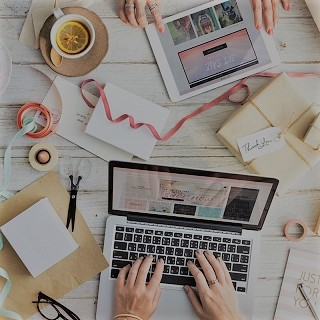
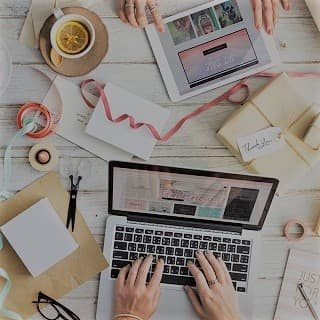
Compression de nouvelle image

diff --git a/style.min.css b/style.min.css
@@ -1,1 +1,1 @@
-body{margin:0;padding:0;background:#fff;overflow-x:hidden;-webkit-font-smoothing:antialiased;-moz-osx-font-smoothing:grayscale}a,button{transition:all .3s ease-in-out;outline:0!important}a:hover{text-decoration:none;cursor:pointer}#page-loading-blocs-notifaction{position:fixed;top:0;bottom:0;width:100%;z-index:100000;background:#fff url(img/pageload-spinner.gif) no-repeat center center}.bloc{width:100%;clear:both;background:50% 50% no-repeat;padding:0 50px;-webkit-background-size:cover;-moz-background-size:cover;-o-background-size:cover;background-size:cover;position:relative}.bloc .container{padding-left:0;padding-right:0}.bloc-lg{padding:100px 50px}.bloc-md{padding:50px}.bloc-sm{padding:20px 50px}.bg-b-edge,.bg-bl-edge,.bg-br-edge,.bg-center,.bg-l-edge,.bg-r-edge,.bg-repeat,.bg-t-edge,.bg-tl-edge,.bg-tr-edge{-webkit-background-size:auto!important;-moz-background-size:auto!important;-o-background-size:auto!important;background-size:auto!important}.bg-repeat{background:repeat}.bg-t-edge{background:top no-repeat}.bloc-bg-texture::before{content:"";background-size:2px 2px;position:absolute;top:0;bottom:0;left:0;right:0}.texture-paper::before{background:url(img/texture-paper.png);background-size:280px 280px}.b-parallax{background-attachment:fixed}.d-bloc{color:rgba(255,255,255,.7)}.d-bloc button:hover{color:rgba(255,255,255,.9)}.d-bloc .icon-round,.d-bloc .icon-rounded,.d-bloc .icon-semi-rounded-a,.d-bloc .icon-semi-rounded-b,.d-bloc .icon-square{border-color:rgba(255,255,255,.9)}.d-bloc .divider-h span{border-color:rgba(255,255,255,.2)}.d-bloc .a-btn,.d-bloc .navbar a,.d-bloc .navbar-brand,.d-bloc a .icon-lg,.d-bloc a .icon-md,.d-bloc a .icon-sm,.d-bloc a .icon-xl,.d-bloc h1 a,.d-bloc h2 a,.d-bloc h3 a,.d-bloc h4 a,.d-bloc h5 a,.d-bloc h6 a,.d-bloc p a{color:rgba(255,255,255,.6)}.d-bloc .a-btn:hover,.d-bloc .navbar a:hover,.d-bloc .navbar-brand:hover,.d-bloc a:hover .icon-lg,.d-bloc a:hover .icon-md,.d-bloc a:hover .icon-sm,.d-bloc a:hover .icon-xl,.d-bloc h1 a:hover,.d-bloc h2 a:hover,.d-bloc h3 a:hover,.d-bloc h4 a:hover,.d-bloc h5 a:hover,.d-bloc h6 a:hover,.d-bloc p a:hover{color:rgba(255,255,255,1)}.d-bloc .navbar-toggle .icon-bar{background:rgba(255,255,255,1)}.d-bloc .btn-wire,.d-bloc .btn-wire:hover{color:rgba(255,255,255,1);border-color:rgba(255,255,255,1)}.d-bloc .panel{color:rgba(0,0,0,.5)}.d-bloc .panel button:hover{color:rgba(0,0,0,.7)}.d-bloc .panel icon{border-color:rgba(0,0,0,.7)}.d-bloc .panel .divider-h span{border-color:rgba(0,0,0,.1)}.d-bloc .panel .a-btn{color:rgba(0,0,0,.6)}.d-bloc .panel .a-btn:hover{color:rgba(0,0,0,1)}.d-bloc .panel .btn-wire,.d-bloc .panel .btn-wire:hover{color:rgba(0,0,0,.7);border-color:rgba(0,0,0,.3)}.d-bloc .panel,.l-bloc{color:rgba(0,0,0,.5)}.d-bloc .panel button:hover,.l-bloc button:hover{color:rgba(0,0,0,.7)}.l-bloc .icon-round,.l-bloc .icon-rounded,.l-bloc .icon-semi-rounded-a,.l-bloc .icon-semi-rounded-b,.l-bloc .icon-square{border-color:rgba(0,0,0,.7)}.d-bloc .panel .divider-h span,.l-bloc .divider-h span{border-color:rgba(0,0,0,.1)}.d-bloc .panel .a-btn,.l-bloc .a-btn,.l-bloc .navbar a,.l-bloc .navbar-brand,.l-bloc a .icon-lg,.l-bloc a .icon-md,.l-bloc a .icon-sm,.l-bloc a .icon-xl,.l-bloc h1 a,.l-bloc h2 a,.l-bloc h3 a,.l-bloc h4 a,.l-bloc h5 a,.l-bloc h6 a,.l-bloc p a{color:rgba(0,0,0,.6)}.d-bloc .panel .a-btn:hover,.l-bloc .a-btn:hover,.l-bloc .navbar a:hover,.l-bloc .navbar-brand:hover,.l-bloc a:hover .icon-lg,.l-bloc a:hover .icon-md,.l-bloc a:hover .icon-sm,.l-bloc a:hover .icon-xl,.l-bloc h1 a:hover,.l-bloc h2 a:hover,.l-bloc h3 a:hover,.l-bloc h4 a:hover,.l-bloc h5 a:hover,.l-bloc h6 a:hover,.l-bloc p a:hover{color:rgba(0,0,0,1)}.l-bloc .navbar-toggle .icon-bar{color:rgba(0,0,0,.6)}.d-bloc .panel .btn-wire,.d-bloc .panel .btn-wire:hover,.l-bloc .btn-wire,.l-bloc .btn-wire:hover{color:rgba(0,0,0,.7);border-color:rgba(0,0,0,.3)}.voffset{margin-top:30px}.voffset-lg{margin-top:80px}.row-no-gutters{margin-right:0;margin-left:0}.row.row-no-gutters>[class*=" col-"],.row.row-no-gutters>[class^=col-]{padding-right:0;padding-left:0}#bloc-1-hero h1{font-size:32px}.navbar{margin-bottom:0;z-index:1}.navbar-brand{height:auto;padding:3px 15px;font-size:25px;font-weight:400;font-weight:600;line-height:44px}.navbar-brand img{max-height:200px;margin:0 5px 0 0;display:inline}.navbar-brand img[src$=svg]{min-width:100px}.nav-center .navbar-brand img{margin:0}.navbar .nav{padding-top:2px;margin-right:-16px;float:right;z-index:1}.nav>li{float:left;margin-top:4px;font-size:16px}.navbar-nav .open .dropdown-menu>li>a{text-align:inherit}.nav>li a:focus,.nav>li a:hover{background:0 0}.navbar-toggle{margin:10px 10px 0 0;border:0}.navbar-toggle:hover{background:0 0!important}.navbar-toggle .icon-bar{background-color:rgba(0,0,0,.5);width:26px}.nav-invert .navbar .nav{float:left}.nav-invert .navbar-brand,.nav-invert .navbar-header{float:right;position:relative;z-index:2}@media (min-width:768px){.site-navigation{position:absolute;top:50%;right:20px;transform:translate(0,-50%);-webkit-transform:translateY(-50%)}.nav>li .dropdown-menu a,.nav>li .dropdown-menu a:hover{color:#484848}.nav-invert .site-navigation{left:0;right:0}.nav-center{text-align:center}.nav-center .navbar-header{width:100%}.nav-center .nav>li,.nav-center .navbar-brand,.nav-center .navbar-header{float:none;display:inline-block}.nav-center .site-navigation{position:relative;width:100%;right:0;margin-right:0;margin-top:20px}.nav-center.mini-nav .navbar-toggle{float:none;margin:10px auto 0}}.nav>li>.dropdown a{background:0 0!important;display:block;padding:14px 15px}nav .caret{margin:0 5px}.dropdown-menu .dropdown-menu{top:-8px;left:100%}.dropdown-menu .dropmenu-flow-right{top:100%;left:0;margin-left:-1px;border-top-left-radius:0;border-top-right-radius:0}.dropdown-menu .dropdown span{border:4px solid #000;border-top-color:transparent;border-right-color:transparent;border-bottom-color:transparent;margin:6px -5px 0 0!important;float:right}.mg-md{margin-top:10px;margin-bottom:20px}.mg-lg{margin-top:10px;margin-bottom:40px}.btn{margin:0 5px 5px 0}.btn.pull-right{margin:0 0 5px 5px}.btn-d,.btn-d:focus,.btn-d:hover{color:#fff;background:rgba(0,0,0,.3)}button{outline:0!important}.btn-rd{border-radius:40px}.btn-clean{border:1px solid rgba(0,0,0,.08);border-bottom-color:rgba(0,0,0,.1);text-shadow:0 1px 0 rgba(0,0,1,.1);box-shadow:0 1px 3px rgba(0,0,1,.25),inset 0 1px 0 0 rgba(255,255,255,.15)}.icon-md{font-size:30px!important}.icon-lg{font-size:60px!important}.sm-shadow{text-shadow:0 1px 2px rgba(0,0,0,.3)}.panel-sq,.panel-sq .panel-footer,.panel-sq .panel-heading{border-radius:0}.panel-rd{border-radius:30px}.panel-rd .panel-heading{border-radius:29px 29px 0 0}.panel-rd .panel-footer{border-radius:0 0 29px 29px}.form-control{border-color:rgba(0,0,0,.1);box-shadow:none}.scrollToTop{width:40px;height:40px;position:fixed;bottom:20px;right:20px;opacity:0;z-index:500;transition:all .3s ease-in-out}.scrollToTop span{margin-top:6px}.showScrollTop{font-size:14px;opacity:1}a[data-lightbox]{position:relative;display:block;text-align:center}a[data-lightbox]:hover::before{content:"+";font-family:HelveticaNeue-Light,"Helvetica Neue Light","Helvetica Neue",Helvetica,Arial;font-size:32px;width:50px;height:50px;margin-left:-25px;border-radius:50%;background:rgba(0,0,0,.6);color:#fff;font-weight:100;z-index:1;position:absolute;top:50%;transform:translateY(-50%);-webkit-transform:translateY(-50%)}a[data-lightbox]:hover img{opacity:.6;-webkit-animation-fill-mode:none;animation-fill-mode:none}#lightbox-modal{display:flex;align-items:center}#lightbox-modal .modal-dialog{width:90%;max-width:900px;margin:0 auto 0}#lightbox-modal .modal-dialog img{max-height:90vh;margin:0 auto}.lightbox-caption{padding:20px;color:#fff;background:rgba(0,0,0,.5);position:absolute;left:15px;right:15px;bottom:5px}.close-lightbox{color:#fff;font-size:30px;position:absolute;top:20px;right:20px;z-index:20;background:rgba(0,0,0,.5);border:none;line-height:30px;padding:0 9px 5px;opacity:.3}.close-lightbox:hover,.next-lightbox:hover,.prev-lightbox:hover{opacity:1;color:#fff}.next-lightbox,.prev-lightbox{font-size:20px;color:rgba(255,255,255,.9);background:rgba(0,0,0,.5);transition:all .2s ease-in-out;position:absolute;top:45%;z-index:1;opacity:.4}.next-lightbox{padding:6px 8px 1px 13px;right:25px}.prev-lightbox{padding:6px 13px 1px 10px;left:25px}.snapshot-lb .modal-body{padding-bottom:45px}.snapshot-lb .lightbox-caption{padding:0;color:rgba(0,0,0,.5);background:0 0}.btn,a,h1,h2,h3,h4,h5,h6,label,p{font-family:helvetica;font-weight:400;color:#575757!important}.container{max-width:1000px}.hero-bloc-text{font-size:38px}.hero-bloc-text-sub{font-size:36px}.statement-bloc-text{line-height:26px;font-style:italic;font-size:20px;text-align:center;font-weight:lighter;max-width:520px;margin:auto auto auto auto}.tight-width-whitespace{max-width:600px;margin:auto auto auto auto}.h1{font-size:20px;font-family:"Open Sans"}.cta-hero{margin-top:22px;color:#fff!important;text-transform:uppercase;padding:12px 28px 12px 28px;font-size:16px;font-weight:700}.social{max-width:400px;margin:auto auto auto auto}h2{font-size:22px;line-height:1.4em}h3{font-size:15px;text-transform:uppercase;font-weight:700;color:#333!important}.med-width-whitespace{max-width:800px;margin:auto auto auto auto;box-shadow:0 0 0 #000}h1{color:#333!important}h4{color:#333!important}.icons{margin-bottom:14px;margin-top:24px}.white{color:#fff!important}.portfolio-thumb{margin-bottom:24px}.portfolio-row{margin-bottom:44px;margin-top:50px}.avatar{box-shadow:0 4px 9px rgba(0,0,0,.3)}.black-background{background-color:rgba(165,147,99,.7);padding:40px 40px 40px 40px}.bold-link{font-weight:900;text-decoration:underline!important}.bgc-white{background-color:#fff}.bgc-dark-slate-blue{background-color:#364577}.bgc-atomic-tangerine{background-color:#f3976c}.tc-white{color:#f3976c!important}.btn-atomic-tangerine{background:#f3976c;color:#fff!important}.btn-atomic-tangerine:hover{background:#c27956!important;color:#fff!important}.ltc-white{color:#fff!important}.ltc-white:hover{color:#ccc!important}.ltc-atomic-tangerine{color:#f3976c!important}.ltc-atomic-tangerine:hover{color:#c27956!important}.icon-dark-slate-blue{color:#364577!important;border-color:#364577!important}.bg-dots-bg{background-image:url(img/dots-bg-compressor.png)}.bg-lines-h2-bg{background-image:url(img/lines-h2-bg-compressor.png)}.bg-banniere{background-image:url(img/la-chouette-agence-banniere-compressor.jpg)}.bg-presentation{background-image:url(img/image-de-presentation.bmp)}@media (max-width:1024px){.bloc{padding-left:20px;padding-right:20px}.bloc-tile-2.full-width-bloc .container,.bloc-tile-3.full-width-bloc .container,.bloc-tile-4.full-width-bloc .container,.bloc.full-width-bloc{padding-left:0;padding-right:0}}@media (max-width:992px) and (min-width:768px){.navbar .nav{max-width:80%}.nav-center.navbar .nav{max-width:100%}}@media only screen and (min-width:768px) and (max-width:1024px) and (orientation:landscape){.b-parallax{background-attachment:scroll}}@media only screen and (min-width:1024px) and (max-width:1366px) and (-webkit-min-device-pixel-ratio:1.5){.b-parallax{background-attachment:scroll}}@media (max-width:991px){.container{width:100%}.b-parallax{background-attachment:scroll}#hero-bloc,.page-container{overflow-x:hidden;position:relative}.bloc-group,.bloc-group .bloc{display:block;width:100%}.bloc-fill-screen .fill-bloc-bottom-edge,.bloc-fill-screen .fill-bloc-top-edge{padding:0 20px}}@media (max-width:767px){.page-container{overflow-x:hidden;position:relative}#disqus_thread,h1,h2,h3,h4,h5,h6,p{padding-left:10px!important;padding-right:10px!important}.b-parallax{background-attachment:scroll}.navbar .nav{padding-top:0;border-top:1px solid rgba(0,0,0,.2);float:none!important}.navbar.row{margin-left:0;margin-right:0}.site-navigation{position:inherit;transform:none;-webkit-transform:none;-ms-transform:none}.nav>li{margin-top:0;border-bottom:1px solid rgba(0,0,0,.1);background:rgba(0,0,0,.05);text-align:left;padding-left:15px;width:100%}.nav>li:hover{background:rgba(0,0,0,.08)}.dropdown .dropdown a .caret{float:none;margin:5px 0 0 10px!important;border:4px solid #000;border-bottom-color:transparent;border-right-color:transparent;border-left-color:transparent}#hero-bloc .navbar .nav{background:rgba(0,0,0,.8)}#hero-bloc .navbar .nav a{color:rgba(255,255,255,.6)}.hero{padding:50px 0}.hero-nav{left:-1px;right:-1px}.navbar-collapse{padding:0;overflow-x:hidden;-webkit-box-shadow:none;box-shadow:none}.navbar-brand img{max-height:40px;width:auto}.nav-invert .navbar-header{float:none;width:100%}.nav-invert .navbar-toggle{float:left;margin-left:10px}.bloc{padding-left:0;padding-right:0}.bloc-lg,.bloc-xl,.bloc-xxl{padding:40px 0}.bloc-md,.bloc-sm{padding-left:0;padding-right:0}.bloc-fill-screen .fill-bloc-bottom-edge,.bloc-fill-screen .fill-bloc-top-edge,.bloc-tile-2 .container,.bloc-tile-3 .container,.bloc-tile-4 .container{padding-left:0;padding-right:0}.a-block{padding:0 10px}.btn-dwn{display:none}.voffset{margin-top:5px}.voffset-md{margin-top:20px}.voffset-lg{margin-top:30px}form{padding:5px}.close-lightbox{display:inline-block}.blocsapp-device-iphone5{background-size:216px 425px;padding-top:60px;width:216px;height:425px}.blocsapp-device-iphone5 img{width:180px;height:320px}}@media (max-width:400px){.bloc{padding-left:0;padding-right:0}}@media (max-width:767px){.bloc-mob-center-text{text-align:center}.img__txt{width:300px;height:80px}}
+body{margin:0;padding:0;background:#fff;overflow-x:hidden;-webkit-font-smoothing:antialiased;-moz-osx-font-smoothing:grayscale}a,button{transition:all .3s ease-in-out;outline:0!important}a:hover{text-decoration:none;cursor:pointer}#page-loading-blocs-notifaction{position:fixed;top:0;bottom:0;width:100%;z-index:100000;background:#fff url(img/pageload-spinner.gif) no-repeat center center}.bloc{width:100%;clear:both;background:50% 50% no-repeat;padding:0 50px;-webkit-background-size:cover;-moz-background-size:cover;-o-background-size:cover;background-size:cover;position:relative}.bloc .container{padding-left:0;padding-right:0}.bloc-lg{padding:100px 50px}.bloc-md{padding:50px}.bloc-sm{padding:20px 50px}.bg-b-edge,.bg-bl-edge,.bg-br-edge,.bg-center,.bg-l-edge,.bg-r-edge,.bg-repeat,.bg-t-edge,.bg-tl-edge,.bg-tr-edge{-webkit-background-size:auto!important;-moz-background-size:auto!important;-o-background-size:auto!important;background-size:auto!important}.bg-repeat{background:repeat}.bg-t-edge{background:top no-repeat}.bloc-bg-texture::before{content:"";background-size:2px 2px;position:absolute;top:0;bottom:0;left:0;right:0}.texture-paper::before{background:url(img/texture-paper-compressor.png);background-size:280px 280px}.b-parallax{background-attachment:fixed}.d-bloc{color:rgba(255,255,255,.7)}.d-bloc button:hover{color:rgba(255,255,255,.9)}.d-bloc .icon-round,.d-bloc .icon-rounded,.d-bloc .icon-semi-rounded-a,.d-bloc .icon-semi-rounded-b,.d-bloc .icon-square{border-color:rgba(255,255,255,.9)}.d-bloc .divider-h span{border-color:rgba(255,255,255,.2)}.d-bloc .a-btn,.d-bloc .navbar a,.d-bloc .navbar-brand,.d-bloc a .icon-lg,.d-bloc a .icon-md,.d-bloc a .icon-sm,.d-bloc a .icon-xl,.d-bloc h1 a,.d-bloc h2 a,.d-bloc h3 a,.d-bloc h4 a,.d-bloc h5 a,.d-bloc h6 a,.d-bloc p a{color:rgba(255,255,255,.6)}.d-bloc .a-btn:hover,.d-bloc .navbar a:hover,.d-bloc .navbar-brand:hover,.d-bloc a:hover .icon-lg,.d-bloc a:hover .icon-md,.d-bloc a:hover .icon-sm,.d-bloc a:hover .icon-xl,.d-bloc h1 a:hover,.d-bloc h2 a:hover,.d-bloc h3 a:hover,.d-bloc h4 a:hover,.d-bloc h5 a:hover,.d-bloc h6 a:hover,.d-bloc p a:hover{color:rgba(255,255,255,1)}.d-bloc .navbar-toggle .icon-bar{background:rgba(255,255,255,1)}.d-bloc .btn-wire,.d-bloc .btn-wire:hover{color:rgba(255,255,255,1);border-color:rgba(255,255,255,1)}.d-bloc .panel{color:rgba(0,0,0,.5)}.d-bloc .panel button:hover{color:rgba(0,0,0,.7)}.d-bloc .panel icon{border-color:rgba(0,0,0,.7)}.d-bloc .panel .divider-h span{border-color:rgba(0,0,0,.1)}.d-bloc .panel .a-btn{color:rgba(0,0,0,.6)}.d-bloc .panel .a-btn:hover{color:rgba(0,0,0,1)}.d-bloc .panel .btn-wire,.d-bloc .panel .btn-wire:hover{color:rgba(0,0,0,.7);border-color:rgba(0,0,0,.3)}.d-bloc .panel,.l-bloc{color:rgba(0,0,0,.5)}.d-bloc .panel button:hover,.l-bloc button:hover{color:rgba(0,0,0,.7)}.l-bloc .icon-round,.l-bloc .icon-rounded,.l-bloc .icon-semi-rounded-a,.l-bloc .icon-semi-rounded-b,.l-bloc .icon-square{border-color:rgba(0,0,0,.7)}.d-bloc .panel .divider-h span,.l-bloc .divider-h span{border-color:rgba(0,0,0,.1)}.d-bloc .panel .a-btn,.l-bloc .a-btn,.l-bloc .navbar a,.l-bloc .navbar-brand,.l-bloc a .icon-lg,.l-bloc a .icon-md,.l-bloc a .icon-sm,.l-bloc a .icon-xl,.l-bloc h1 a,.l-bloc h2 a,.l-bloc h3 a,.l-bloc h4 a,.l-bloc h5 a,.l-bloc h6 a,.l-bloc p a{color:rgba(0,0,0,.6)}.d-bloc .panel .a-btn:hover,.l-bloc .a-btn:hover,.l-bloc .navbar a:hover,.l-bloc .navbar-brand:hover,.l-bloc a:hover .icon-lg,.l-bloc a:hover .icon-md,.l-bloc a:hover .icon-sm,.l-bloc a:hover .icon-xl,.l-bloc h1 a:hover,.l-bloc h2 a:hover,.l-bloc h3 a:hover,.l-bloc h4 a:hover,.l-bloc h5 a:hover,.l-bloc h6 a:hover,.l-bloc p a:hover{color:rgba(0,0,0,1)}.l-bloc .navbar-toggle .icon-bar{color:rgba(0,0,0,.6)}.d-bloc .panel .btn-wire,.d-bloc .panel .btn-wire:hover,.l-bloc .btn-wire,.l-bloc .btn-wire:hover{color:rgba(0,0,0,.7);border-color:rgba(0,0,0,.3)}.voffset{margin-top:30px}.voffset-lg{margin-top:80px}.row-no-gutters{margin-right:0;margin-left:0}.row.row-no-gutters>[class*=" col-"],.row.row-no-gutters>[class^=col-]{padding-right:0;padding-left:0}#bloc-1-hero h1{font-size:32px}.navbar{margin-bottom:0;z-index:1}.navbar-brand{height:auto;padding:3px 15px;font-size:25px;font-weight:400;font-weight:600;line-height:44px}.navbar-brand img{max-height:200px;margin:0 5px 0 0;display:inline}.navbar-brand img[src$=svg]{min-width:100px}.nav-center .navbar-brand img{margin:0}.navbar .nav{padding-top:2px;margin-right:-16px;float:right;z-index:1}.nav>li{float:left;margin-top:4px;font-size:16px}.navbar-nav .open .dropdown-menu>li>a{text-align:inherit}.nav>li a:focus,.nav>li a:hover{background:0 0}.navbar-toggle{margin:10px 10px 0 0;border:0}.navbar-toggle:hover{background:0 0!important}.navbar-toggle .icon-bar{background-color:rgba(0,0,0,.5);width:26px}.nav-invert .navbar .nav{float:left}.nav-invert .navbar-brand,.nav-invert .navbar-header{float:right;position:relative;z-index:2}@media (min-width:768px){.site-navigation{position:absolute;top:50%;right:20px;transform:translate(0,-50%);-webkit-transform:translateY(-50%)}.nav>li .dropdown-menu a,.nav>li .dropdown-menu a:hover{color:#484848}.nav-invert .site-navigation{left:0;right:0}.nav-center{text-align:center}.nav-center .navbar-header{width:100%}.nav-center .nav>li,.nav-center .navbar-brand,.nav-center .navbar-header{float:none;display:inline-block}.nav-center .site-navigation{position:relative;width:100%;right:0;margin-right:0;margin-top:20px}.nav-center.mini-nav .navbar-toggle{float:none;margin:10px auto 0}}.nav>li>.dropdown a{background:0 0!important;display:block;padding:14px 15px}nav .caret{margin:0 5px}.dropdown-menu .dropdown-menu{top:-8px;left:100%}.dropdown-menu .dropmenu-flow-right{top:100%;left:0;margin-left:-1px;border-top-left-radius:0;border-top-right-radius:0}.dropdown-menu .dropdown span{border:4px solid #000;border-top-color:transparent;border-right-color:transparent;border-bottom-color:transparent;margin:6px -5px 0 0!important;float:right}.mg-md{margin-top:10px;margin-bottom:20px}.mg-lg{margin-top:10px;margin-bottom:40px}.btn{margin:0 5px 5px 0}.btn.pull-right{margin:0 0 5px 5px}.btn-d,.btn-d:focus,.btn-d:hover{color:#fff;background:rgba(0,0,0,.3)}button{outline:0!important}.btn-rd{border-radius:40px}.btn-clean{border:1px solid rgba(0,0,0,.08);border-bottom-color:rgba(0,0,0,.1);text-shadow:0 1px 0 rgba(0,0,1,.1);box-shadow:0 1px 3px rgba(0,0,1,.25),inset 0 1px 0 0 rgba(255,255,255,.15)}.icon-md{font-size:30px!important}.icon-lg{font-size:60px!important}.sm-shadow{text-shadow:0 1px 2px rgba(0,0,0,.3)}.panel-sq,.panel-sq .panel-footer,.panel-sq .panel-heading{border-radius:0}.panel-rd{border-radius:30px}.panel-rd .panel-heading{border-radius:29px 29px 0 0}.panel-rd .panel-footer{border-radius:0 0 29px 29px}.form-control{border-color:rgba(0,0,0,.1);box-shadow:none}.scrollToTop{width:40px;height:40px;position:fixed;bottom:20px;right:20px;opacity:0;z-index:500;transition:all .3s ease-in-out}.scrollToTop span{margin-top:6px}.showScrollTop{font-size:14px;opacity:1}a[data-lightbox]{position:relative;display:block;text-align:center}a[data-lightbox]:hover::before{content:"+";font-family:HelveticaNeue-Light,"Helvetica Neue Light","Helvetica Neue",Helvetica,Arial;font-size:32px;width:50px;height:50px;margin-left:-25px;border-radius:50%;background:rgba(0,0,0,.6);color:#fff;font-weight:100;z-index:1;position:absolute;top:50%;transform:translateY(-50%);-webkit-transform:translateY(-50%)}a[data-lightbox]:hover img{opacity:.6;-webkit-animation-fill-mode:none;animation-fill-mode:none}#lightbox-modal{display:flex;align-items:center}#lightbox-modal .modal-dialog{width:90%;max-width:900px;margin:0 auto 0}#lightbox-modal .modal-dialog img{max-height:90vh;margin:0 auto}.lightbox-caption{padding:20px;color:#fff;background:rgba(0,0,0,.5);position:absolute;left:15px;right:15px;bottom:5px}.close-lightbox{color:#fff;font-size:30px;position:absolute;top:20px;right:20px;z-index:20;background:rgba(0,0,0,.5);border:none;line-height:30px;padding:0 9px 5px;opacity:.3}.close-lightbox:hover,.next-lightbox:hover,.prev-lightbox:hover{opacity:1;color:#fff}.next-lightbox,.prev-lightbox{font-size:20px;color:rgba(255,255,255,.9);background:rgba(0,0,0,.5);transition:all .2s ease-in-out;position:absolute;top:45%;z-index:1;opacity:.4}.next-lightbox{padding:6px 8px 1px 13px;right:25px}.prev-lightbox{padding:6px 13px 1px 10px;left:25px}.snapshot-lb .modal-body{padding-bottom:45px}.snapshot-lb .lightbox-caption{padding:0;color:rgba(0,0,0,.5);background:0 0}.btn,a,h1,h2,h3,h4,h5,h6,label,p{font-family:helvetica;font-weight:400;color:#575757!important}.container{max-width:1000px}.hero-bloc-text{font-size:38px}.hero-bloc-text-sub{font-size:36px}.statement-bloc-text{line-height:26px;font-style:italic;font-size:20px;text-align:center;font-weight:lighter;max-width:520px;margin:auto auto auto auto}.tight-width-whitespace{max-width:600px;margin:auto auto auto auto}.h1{font-size:20px;font-family:"Open Sans"}.cta-hero{margin-top:22px;color:#fff!important;text-transform:uppercase;padding:12px 28px 12px 28px;font-size:16px;font-weight:700}.social{max-width:400px;margin:auto auto auto auto}h2{font-size:22px;line-height:1.4em}h3{font-size:15px;text-transform:uppercase;font-weight:700;color:#333!important}.med-width-whitespace{max-width:800px;margin:auto auto auto auto;box-shadow:0 0 0 #000}h1{color:#333!important}h4{color:#333!important}.icons{margin-bottom:14px;margin-top:24px}.white{color:#fff!important}.portfolio-thumb{margin-bottom:24px}.portfolio-row{margin-bottom:44px;margin-top:50px}.avatar{box-shadow:0 4px 9px rgba(0,0,0,.3)}.black-background{background-color:rgba(165,147,99,.7);padding:40px 40px 40px 40px}.bold-link{font-weight:900;text-decoration:underline!important}.bgc-white{background-color:#fff}.bgc-dark-slate-blue{background-color:#364577}.bgc-atomic-tangerine{background-color:#f3976c}.tc-white{color:#f3976c!important}.btn-atomic-tangerine{background:#f3976c;color:#fff!important}.btn-atomic-tangerine:hover{background:#c27956!important;color:#fff!important}.ltc-white{color:#fff!important}.ltc-white:hover{color:#ccc!important}.ltc-atomic-tangerine{color:#f3976c!important}.ltc-atomic-tangerine:hover{color:#c27956!important}.icon-dark-slate-blue{color:#364577!important;border-color:#364577!important}.bg-dots-bg{background-image:url(img/dots-bg-compressor.png)}.bg-lines-h2-bg{background-image:url(img/lines-h2-bg-compressor.png)}.bg-banniere{background-image:url(img/la-chouette-agence-banniere-compressor.jpg)}.bg-presentation{background-image:url(img/image-de-presentation.jpg)}@media (max-width:1024px){.bloc{padding-left:20px;padding-right:20px}.bloc-tile-2.full-width-bloc .container,.bloc-tile-3.full-width-bloc .container,.bloc-tile-4.full-width-bloc .container,.bloc.full-width-bloc{padding-left:0;padding-right:0}}@media (max-width:992px) and (min-width:768px){.navbar .nav{max-width:80%}.nav-center.navbar .nav{max-width:100%}}@media only screen and (min-width:768px) and (max-width:1024px) and (orientation:landscape){.b-parallax{background-attachment:scroll}}@media only screen and (min-width:1024px) and (max-width:1366px) and (-webkit-min-device-pixel-ratio:1.5){.b-parallax{background-attachment:scroll}}@media (max-width:991px){.container{width:100%}.b-parallax{background-attachment:scroll}#hero-bloc,.page-container{overflow-x:hidden;position:relative}.bloc-group,.bloc-group .bloc{display:block;width:100%}.bloc-fill-screen .fill-bloc-bottom-edge,.bloc-fill-screen .fill-bloc-top-edge{padding:0 20px}}@media (max-width:767px){.page-container{overflow-x:hidden;position:relative}#disqus_thread,h1,h2,h3,h4,h5,h6,p{padding-left:10px!important;padding-right:10px!important}.b-parallax{background-attachment:scroll}.navbar .nav{padding-top:0;border-top:1px solid rgba(0,0,0,.2);float:none!important}.navbar.row{margin-left:0;margin-right:0}.site-navigation{position:inherit;transform:none;-webkit-transform:none;-ms-transform:none}.nav>li{margin-top:0;border-bottom:1px solid rgba(0,0,0,.1);background:rgba(0,0,0,.05);text-align:left;padding-left:15px;width:100%}.nav>li:hover{background:rgba(0,0,0,.08)}.dropdown .dropdown a .caret{float:none;margin:5px 0 0 10px!important;border:4px solid #000;border-bottom-color:transparent;border-right-color:transparent;border-left-color:transparent}#hero-bloc .navbar .nav{background:rgba(0,0,0,.8)}#hero-bloc .navbar .nav a{color:rgba(255,255,255,.6)}.hero{padding:50px 0}.hero-nav{left:-1px;right:-1px}.navbar-collapse{padding:0;overflow-x:hidden;-webkit-box-shadow:none;box-shadow:none}.navbar-brand img{max-height:40px;width:auto}.nav-invert .navbar-header{float:none;width:100%}.nav-invert .navbar-toggle{float:left;margin-left:10px}.bloc{padding-left:0;padding-right:0}.bloc-lg,.bloc-xl,.bloc-xxl{padding:40px 0}.bloc-md,.bloc-sm{padding-left:0;padding-right:0}.bloc-fill-screen .fill-bloc-bottom-edge,.bloc-fill-screen .fill-bloc-top-edge,.bloc-tile-2 .container,.bloc-tile-3 .container,.bloc-tile-4 .container{padding-left:0;padding-right:0}.a-block{padding:0 10px}.btn-dwn{display:none}.voffset{margin-top:5px}.voffset-md{margin-top:20px}.voffset-lg{margin-top:30px}form{padding:5px}.close-lightbox{display:inline-block}.blocsapp-device-iphone5{background-size:216px 425px;padding-top:60px;width:216px;height:425px}.blocsapp-device-iphone5 img{width:180px;height:320px}}@media (max-width:400px){.bloc{padding-left:0;padding-right:0}}@media (max-width:767px){.bloc-mob-center-text{text-align:center}.img__txt{width:300px;height:80px}}
